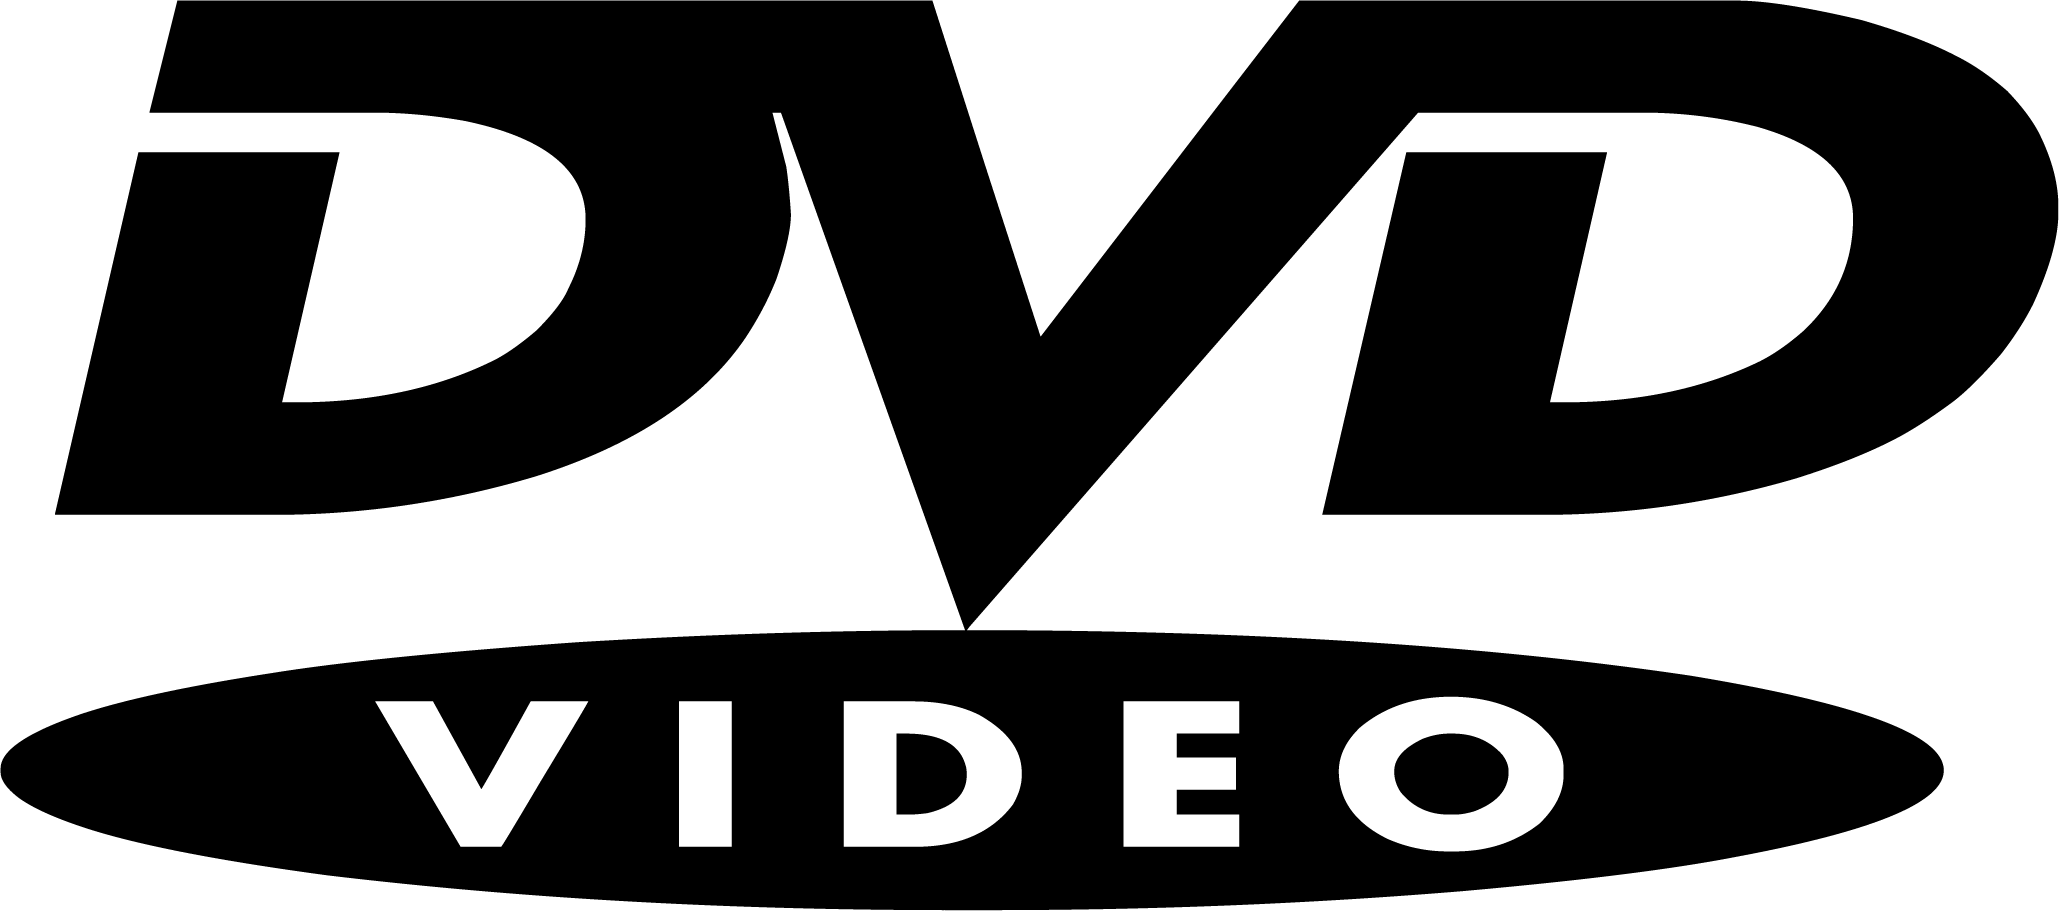
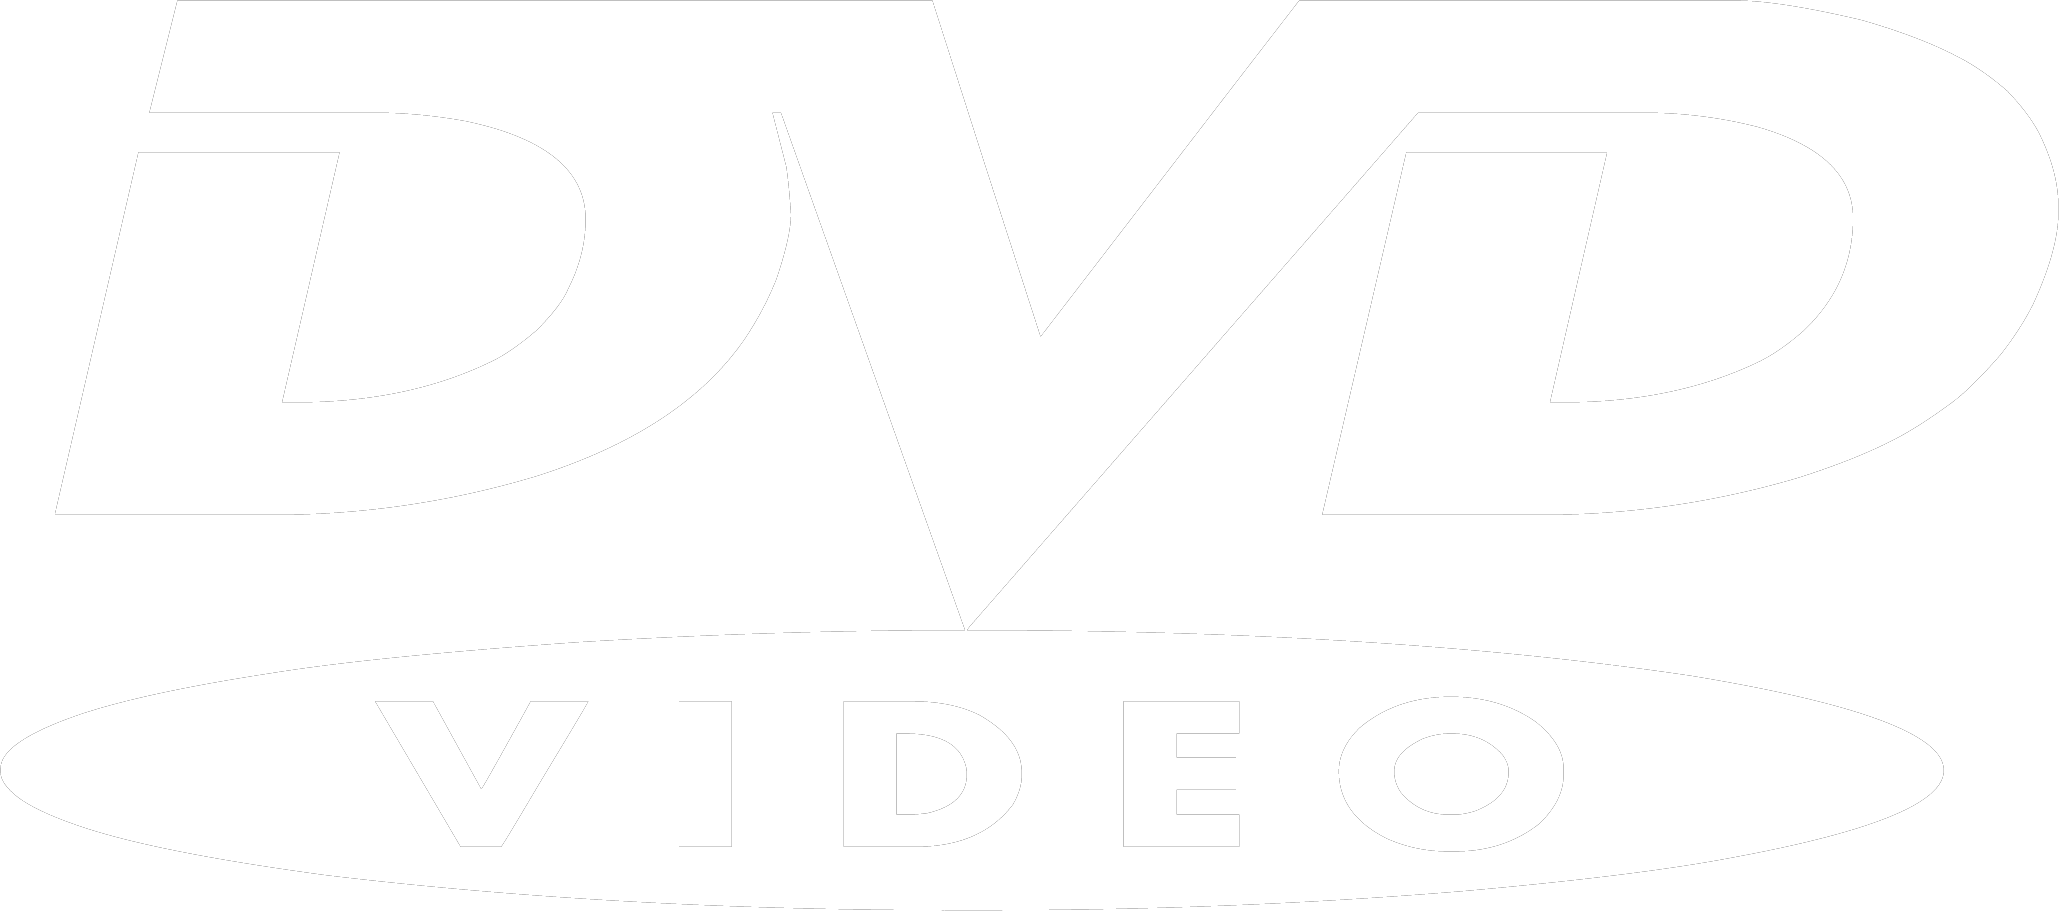
no more flashbang

diff --git a/main.py b/main.py
@@ -40,7 +40,7 @@ while running:
             running = False
 
     # fill the screen with a color to wipe away anything from last frame
-    screen.fill("white")
+    screen.fill("black")
 
     # RENDER YOUR GAME HERE
     # spawn dvd logo
